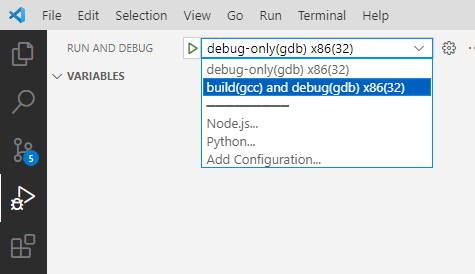
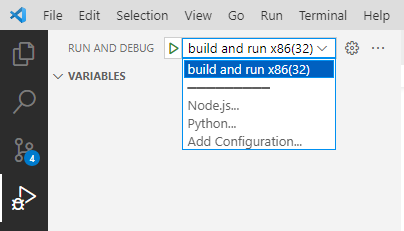
improve support for posix

Changed region(s): [[0.0, 0.0303, 1.0, 1.0], [0.8911, 0.0303, 0.9802, 0.0909]]

diff --git a/platform/Virtual_TFT_Port.c b/platform/Virtual_TFT_Port.c
@@ -138,7 +138,7 @@ static void monitor_sdl_refr_core(void)
 {
     if(sdl_refr_qry != false)
     {
-        if (arm_2d_helper_is_time_out(1000/60)) 
+        if (arm_2d_helper_is_time_out(1000/59)) 
         {
             sdl_refr_qry = false;
             SDL_UpdateTexture(texture, NULL, tft_fb, VT_WIDTH * sizeof(uint32_t));
@@ -244,23 +244,22 @@ void lcd_flush(int32_t nMS)
     sdl_refr_qry = true;
 }
 
-#if 0
-void __disp_adapter0_request_async_flushing( 
-                                                    void *pTarget,
-                                                    bool bIsNewFrame,
-                                                    int16_t iX, 
-                                                    int16_t iY,
-                                                    int16_t iWidth,
-                                                    int16_t iHeight,
-                                                    const COLOUR_INT *pBuffer)
-{
-
-     VT_Fill_Multiple_Colors(iX, iY,iX+iWidth-1,iY+iHeight-1,(color_typedef*) pBuffer);
-     s_bRequestAsyncFlush = true;
-}
-#endif
-
 uint32_t SystemCoreClock=3600000000;
+
+#if defined(_POSIX_VERSION) || defined(HAS_CLOCK_GETTIME)
+int64_t arm_2d_helper_get_system_timestamp(void)
+{
+    struct timespec timestamp;
+    clock_gettime(CLOCK_MONOTONIC, &timestamp);
+
+    return 1000000ul * timestamp.tv_sec + timestamp.tv_nsec / 1000ul;
+}
+
+uint32_t arm_2d_helper_get_reference_clock_frequency(void)
+{
+    return 1000000ul;
+}
+#else
 
 int64_t arm_2d_helper_get_system_timestamp(void)
 {
@@ -269,8 +268,9 @@ int64_t arm_2d_helper_get_system_timestamp(void)
 
 uint32_t arm_2d_helper_get_reference_clock_frequency(void)
 {
-    return 1000;
+    return CLOCKS_PER_SEC;
 }
+#endif
 
 __attribute__((constructor))
 void VT_Init(void)

diff --git a/README.md b/README.md
@@ -29,7 +29,7 @@ The `--recursive` option is used to clone all the submodules included in the pro
 
 ### 2. Install GCC (mingw32)
 
-Next, you need to download and install GCC. You **MUST** download the [latest mingw32](https://github.com/niXman/mingw-builds-binaries/releases/). For example [i686-13.1.0-release-win32-dwarf-ucrt-rt_v11-rev1.7z](https://github.com/niXman/mingw-builds-binaries/releases/download/13.1.0-rt_v11-rev1/i686-13.1.0-release-win32-dwarf-ucrt-rt_v11-rev1.7z)
+Next, you need to download and install GCC. You **MUST** download the [latest mingw32](https://github.com/niXman/mingw-builds-binaries/releases/). For example [i686-13.1.0-release-posix-dwarf-ucrt-rt_v11-rev1.7z](https://github.com/niXman/mingw-builds-binaries/releases/download/13.1.0-rt_v11-rev1/i686-13.1.0-release-posix-dwarf-ucrt-rt_v11-rev1.7z)
 
 Unzip the package and copy it to your desired location. 
 
@@ -46,6 +46,8 @@ Finally, you need to open the project in VS Code. You can do this by choosing "*
 In "**Run and Debug**" panel, you can run the project via "**build and run x86(32)**" or you can press "**F5**" to launch a debug session.
 
 ![BuildAndRun](./doc/pictures/build_and_run.png) 
+
+
 
 
 
